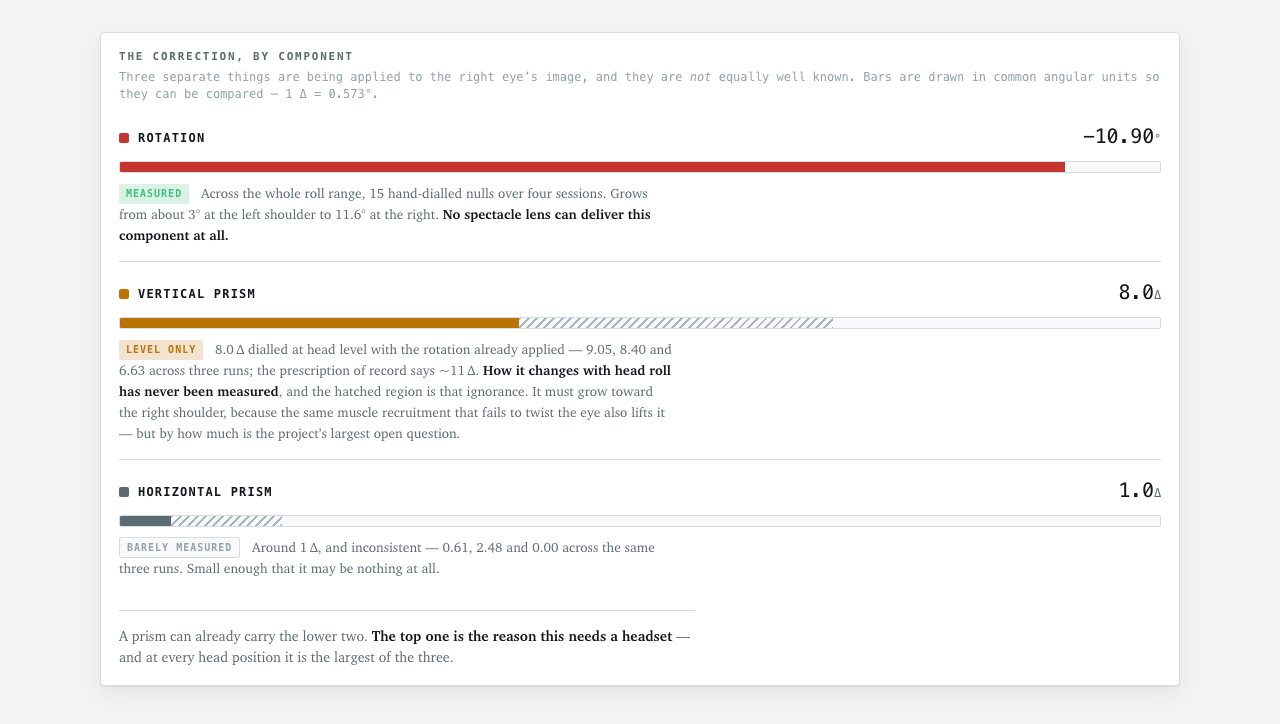
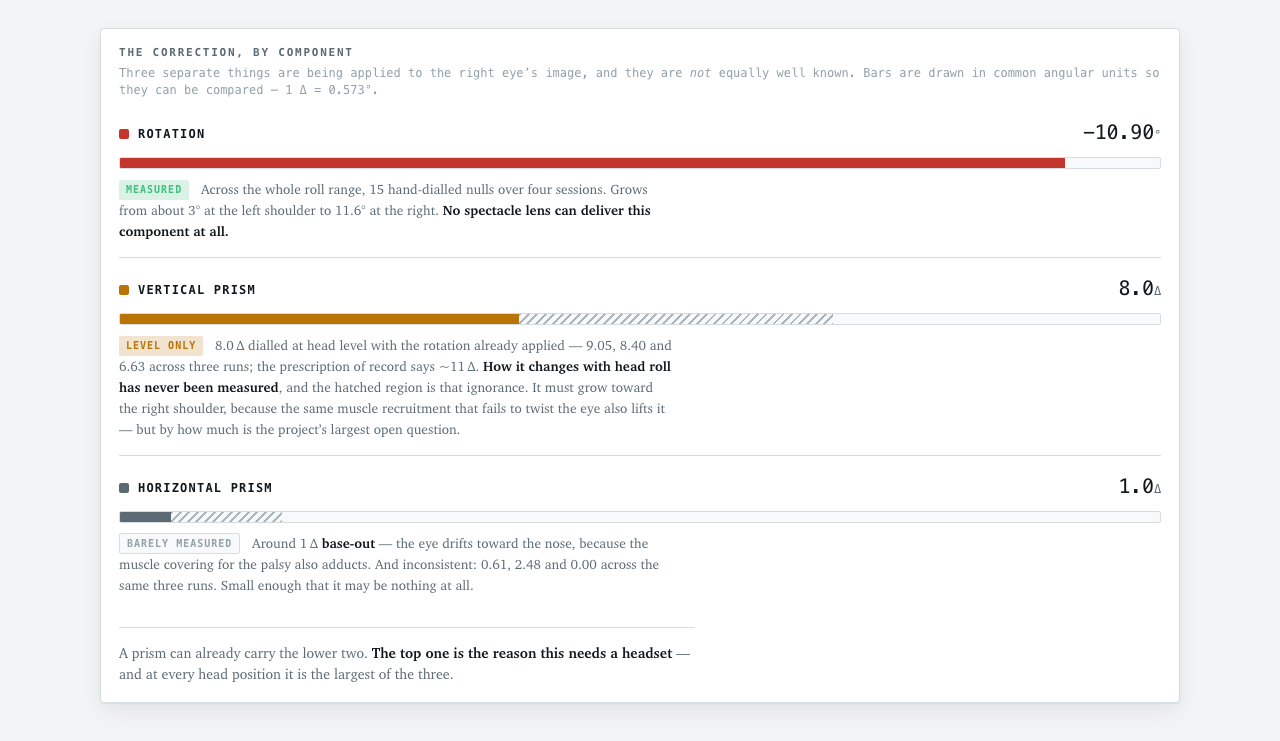
Bielschowsky post: the nasal drift, and screenshots that match the page
The eye panel gained a third component — ~1Δ base-out, drawn as the pupil
drifting toward the nose, because the superior rectus covering for the palsy
adducts as well as elevates — and lost the 2x magnification on the pupil
rise. Both axes are now life size, which makes the drift about half a pixel:
the honest proportion of a 1Δ component beside an 8Δ one.

Adds a short section explaining both, and regenerates the five shots that
showed the old panel: hero-level, eyes-level, eyes-right,
eyes-right-corrected, components. Same framing and page state as the
originals (40° right roll, correction on where it was on before).

diff --git a/content/bielschowsky.md b/content/bielschowsky.md
@@ -34,10 +34,10 @@ The Bielschowsky head-tilt test was described in 1935 and is still how a fourth 
 The first panel draws both eyes from in front. When the head rolls, the otoliths command ocular counter-roll — the eyes rotate against the head to keep the world upright, recovering about 15% of the roll. Intorting the right eye is a job shared by the superior oblique and the superior rectus, and mine is the palsied one.
 
 ![](assets/images/bielschowsky/eyes-level.png)
-*With the head level, the two retinal images are already 5.5° apart — beyond the ±3.5° range within which I can pull them together — and the right eye sits 8.0Δ higher.*
+*With the head level, the two retinal images are already 5.5° apart — beyond the ±3.5° range within which I can pull them together — and the right eye sits 8.0Δ higher and 1.0Δ toward the nose. The pupil is drawn life size, which is why you have to look for it: 8Δ on a 27-pixel eye is a bit over two pixels. The dashed references are what make it readable, and the figures beside the eye are the measurement.*
 
 ![](assets/images/bielschowsky/eyes-right.png)
-*I dragged the slider 40° onto my right shoulder. The right eye is asked for intorsion it cannot supply, so it falls short: the two images rotate to 10.9° apart and the right eye rides 15.9Δ higher. Rolling the other way hands the job to the inferior oblique and inferior rectus, which manage it perfectly well, and the mismatch shrinks to about 3° at the left shoulder.*
+*I dragged the slider 40° onto my right shoulder. The right eye is asked for intorsion it cannot supply, so it falls short: the two images rotate to 10.9° apart and the right eye rides 15.9Δ higher and 2.0Δ inward. Rolling the other way hands the job to the inferior oblique and inferior rectus, which manage it perfectly well, and the mismatch shrinks to about 3° at the left shoulder.*
 
 That last sentence is the whole reason for my head posture. Leftward tilt is the only free variable that drives the torsional demand toward zero, and I found it years before I could measure it.
 
@@ -63,6 +63,10 @@ I was careful to draw the correction as three separate things, because they are 
 
 ![](assets/images/bielschowsky/components.png)
 *Rotation is measured across the whole roll range and no spectacle lens can deliver it at all. Vertical prism — 8.0Δ, dialled at head level once the rotation was already right — is exactly what a prism does, and the prescription of record calls for roughly 11Δ; how it changes with head roll has never been measured, and the hatched region is that ignorance. Horizontal prism came out at 0.61, 2.48 and 0.00 across three runs, so it may be nothing at all.*
+
+The third component is the one I had been drawing as nothing, and it turns out to go the way most people guess wrongly: **inward**. The superior rectus that covers for my palsied oblique is not only an elevator — its secondary action is **adduction** — so the same recruitment that lifts the eye also pulls it toward my nose, and the prescription of record carries its 1Δ **base-out**, which is what an inward deviation is given.
+
+So the eye panel now moves the pupil on both axes rather than only up. It also no longer exaggerates either of them. There had been a 2× magnification on the rise to make a few degrees easier to see, and it was defensible while there was one axis — but the moment a second arrived at an eighth the size, any magnification became a choice about which component looks important. Both are now drawn at true scale, which means the sideways drift is about half a pixel and you cannot really see it. That is the honest picture of a 1Δ component sitting beside an 8Δ one, and I would rather the drawing say so than flatter the smallest number on the page.
 
 ## Where the curve comes from
 
